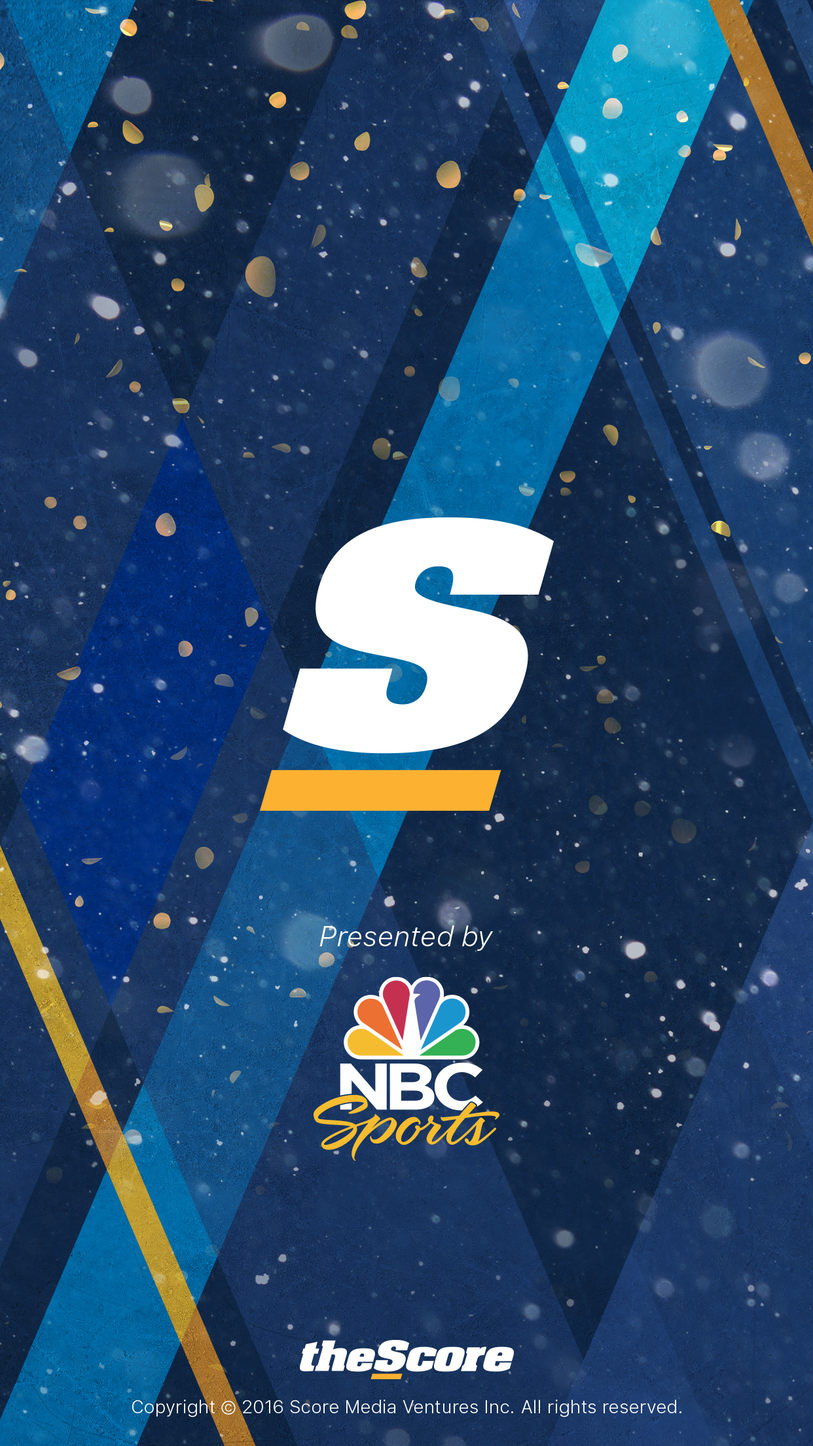
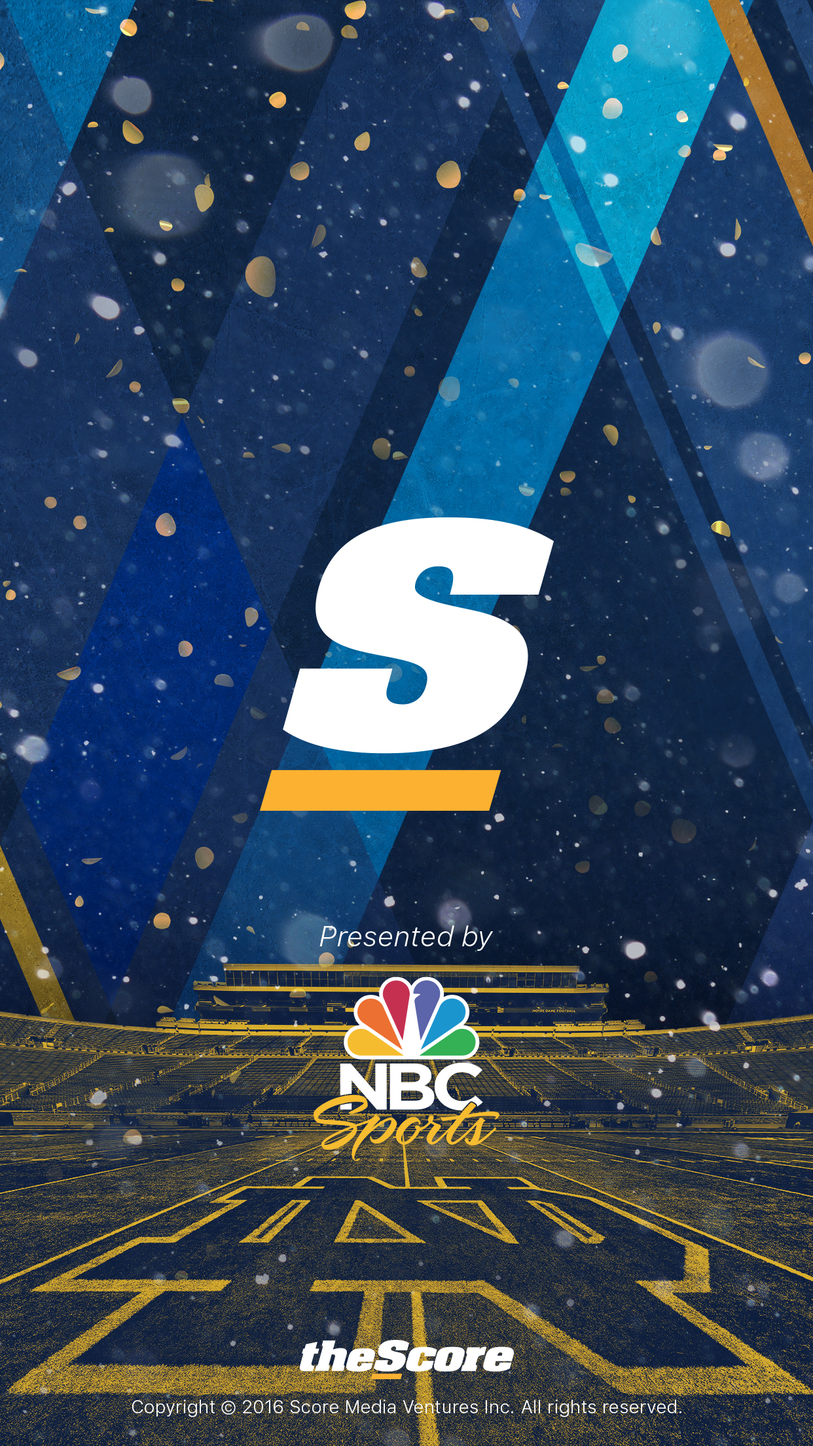
1242

Changed region(s): [[0.0, 0.5938, 1.0, 1.0]]

diff --git a/WNH/WC_media-buy/index.html b/WNH/WC_media-buy/index.html
@@ -1,7 +1,7 @@
 <!DOCTYPE html PUBLIC "-//W3C//DTD XHTML 1.0 Transitional//EN" "http://www.w3.org/TR/xhtml1/DTD/xhtml1-transitional.dtd">
 <html xmlns="http://www.w3.org/1999/xhtml">
 <head>
-	<title>NHL Winter Classic | Digital | Bruins vs Blackhawks | 01.01.19 | Media Buy</title>
+	<title>NHL Winter Classic | Digital | Bruins vs Blackhawks | 01.01.19</title>
 	<META HTTP-EQUIV="CACHE-CONTROL" CONTENT="NO-CACHE">
 		<META HTTP-EQUIV="PRAGMA" CONTENT="NO-CACHE">
 			<link rel="stylesheet" type="text/css" href="main.css" />
@@ -15,7 +15,7 @@
 
 			<div id="contentright">
 
-				<h6>NHL Winter Classic | Digital | Bruins vs Blackhawks | 01.01.19 | Media Buy</h6> 
+				<h6>NHL Winter Classic | Digital | Bruins vs Blackhawks | 01.01.19</h6> 
 
 				<h2><a href="html_css/download.zip">download files here</a></h2>
 
@@ -122,11 +122,6 @@
 					<h4>theScore Launch Page Takeover (1242x2208)</h4>
 					<p>(shown at 50% - <a href="html_css/1242x2208.jpg">click here</a> to view at full size)</p>
 					<p><object width="621" height="1104" data="html_css/1242x2208.jpg"></object> <br /><br />
-					</p>
-
-					<h4>theScore Launch Page Takeover (1242x2208) version 2</h4>
-					<p>(shown at 50% - <a href="html_css/1242x2208_v2">click here</a> to view at full size)</p>
-					<p><object width="621" height="1104" data="html_css/1242x2208_v2.jpg"></object> <br /><br />
 					</p>
 
 
